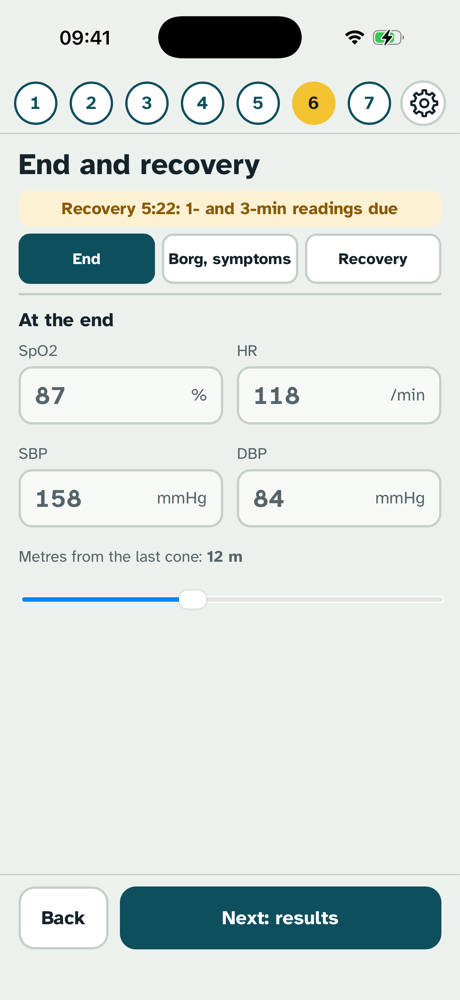
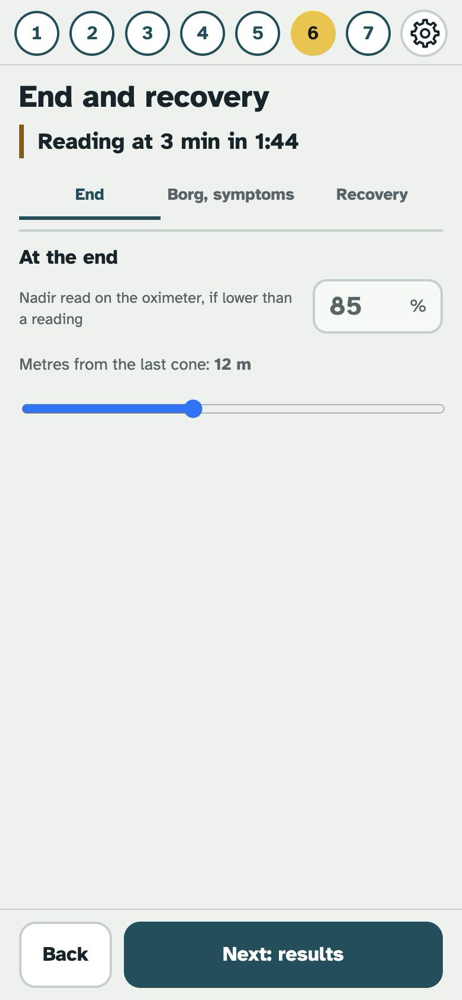
Nouveau dessin sur iPhone étendu aux autres écrans ; repos et récupération en tableau léger

diff --git a/index.html b/index.html
@@ -708,6 +708,42 @@ h1{font-size:28px;line-height:1.15;margin:20px 0 4px;text-wrap:balance}
   .cols.test .lap{padding-top:64px}
   .cols.test .ctl{grid-template-columns:.9fr 1.3fr 1.3fr}
   .cols.test .b-undo{border-color:transparent;background:none;color:var(--muted);white-space:nowrap;padding-left:0;padding-right:0}
+  /* Même principe sur les autres écrans (go d'Allan du 25 novembre 2026) : filets plutôt que cadres, texte à lire sur le fond
+     avec un filet pétrole, ocre = relevé à faire maintenant ; les champs de saisie gardent leur bord (où toucher). */
+  .lead{border-left:4px solid var(--accent);padding:1px 0 1px 12px;color:var(--fg)}
+  .readout{border-left:0;padding:0;margin:6px 0 10px}
+  .readout .rv{font-size:44px}
+  .borgrow{border:0;border-bottom:1px solid var(--line);border-radius:0;background:none;padding:8px 0;margin:0}
+  .borgrow:first-of-type{border-top:1px solid var(--line)}
+  .borgrow .showscale{background:none;color:var(--accent);border:2px solid var(--line);min-height:44px;padding:6px 14px}
+  .consignes{background:none;border-radius:0;padding:2px 0 2px 12px;font-size:17px;line-height:1.4}
+  .check{border:0;border-bottom:1px solid var(--line);border-radius:0;background:none;padding:10px 0;margin:0}
+  .check.on{border-color:var(--line)}
+  .rtabs{grid-gap:0}
+  .rtclk{background:none;border-radius:0;text-align:left;color:var(--fg);font:700 19px/1.3 var(--f-body);border-left:4px solid var(--warn);padding:2px 0 2px 12px;margin:0 0 8px}
+  .rtab{border:0;border-radius:0;background:none;color:var(--muted);box-shadow:inset 0 -3px 0 transparent}
+  .rtab.on{background:none;color:var(--accent);box-shadow:inset 0 -3px 0 var(--accent)}
+  .kpis{grid-gap:0;border-top:1px solid var(--line)}
+  .kpi{background:none;border:0;border-bottom:1px solid var(--line);border-radius:0;padding:10px 0}
+  .kpi:nth-child(odd){border-right:1px solid var(--line);padding-right:10px}
+  .kpi:nth-child(even){padding-left:12px}
+  .b-syn .text{background:none;border:0;border-left:4px solid var(--accent);border-radius:0;padding:2px 0 2px 12px;font-size:16px;line-height:1.45}
+  .ltab{margin:0}
+  .lh,.lrow{display:grid;grid-template-columns:46px repeat(4,minmax(0,1fr)) 44px;grid-gap:4px;-webkit-align-items:center;align-items:center;width:100%}
+  .lh{font-size:13px;color:var(--muted);text-align:center;padding:0 0 4px 10px;border-bottom:1px solid var(--line)}
+  .lrow{min-height:52px;margin:0;padding:0 0 0 10px;border:0;border-bottom:1px solid var(--line);border-radius:0;background:none;text-align:center;font:inherit;color:var(--fg)}
+  button.lrow{-webkit-appearance:none;appearance:none}
+  .ltab > .lrow:last-child{border-bottom:0}
+  .lrow .mm{font-size:14px;color:var(--muted);text-align:left}
+  .lrow b{font:700 24px/1 var(--f-num);font-variant-numeric:tabular-nums}
+  .lrow b.bad{color:var(--alert)}
+  .lrow.due{background:var(--warn-soft);box-shadow:inset 4px 0 0 var(--warn)}
+  .lrow.on{background:var(--warn-soft);box-shadow:inset 5px 0 0 var(--warn);padding:6px 0 6px 10px}
+  .lrow.on .mm{font-weight:700;color:var(--fg)}
+  .lrow.on .f > span:first-child{display:none}
+  .lrow.on .f .box{padding:0 4px}
+  .lrow.on .f input{font-size:22px;padding:8px 0;text-align:center}
+  .lrow.on .mok{min-height:44px;padding:0}
 }
 @media (prefers-reduced-motion:reduce){*{transition:none!important;animation:none!important}}
 </style></head><body>
@@ -1078,7 +1114,7 @@ var SCREENS = {
   repos: function () {
     nextBar('cond', LG('Suivant : préparer le départ', 'Next: get ready to start'), 'pret');
     return '<h1>' + LG('Repos, avant le départ', 'Rest, before the start') + '</h1><p class="lead">' + LG('Patient assis près de la ligne de départ, au repos au moins 15 minutes avant le test. Vérifier les contre-indications ; relever SpO2, FC et pression artérielle, puis dyspnée et fatigue.', 'Patient seated near the starting line, resting for at least 15 minutes before the test. Check contraindications; record SpO2, HR and blood pressure, then dyspnoea and fatigue.') + '</p>' +
-      '<div class="cols"><div class="col"><div class="card"><div class="grid2">' + field('rest.spo2', 'SpO2', '%') + field('rest.fc', LG('FC', 'HR'), '/min') + field('rest.pas', LG('PAS', 'SBP'), 'mmHg') + field('rest.pad', LG('PAD', 'DBP'), 'mmHg') + '</div>' + flags('repos') + '</div>' + restTitr() + '</div>' +
+      '<div class="cols"><div class="col"><div class="card">' + (phoneTab() ? ltab(lrowsRest()) : '<div class="grid2">' + field('rest.spo2', 'SpO2', '%') + field('rest.fc', LG('FC', 'HR'), '/min') + field('rest.pas', LG('PAS', 'SBP'), 'mmHg') + field('rest.pad', LG('PAD', 'DBP'), 'mmHg') + '</div>') + flags('repos') + '</div>' + restTitr() + '</div>' +
       '<div class="col"><div class="card' + (restTitrOn() ? ' borgpair' : '') + '"><h2>' + LG('Borg avant le test', 'Borg before the test') + '</h2>' + borg('rest.bd', LG('Dyspnée', 'Dyspnoea')) + borg('rest.bf', 'Fatigue') + '</div></div></div>';
   },
   pret: function () {
@@ -1125,14 +1161,14 @@ var SCREENS = {
     return '<h1>' + LG('Arrêt et récupération', 'End and recovery') + '</h1><p class="lead rcl">' + stopTxt + (S.stop.reason ? '.' : LG('. À dire : « ' + END_PHRASE + ' »', '. Say: “' + END_PHRASE + '”')) + LG(' Le minuteur de récupération tourne.', ' The recovery timer is running.') + '</p>' +
       '<div class="rtabs"><span class="rtstop">' + stopTxt + '</span><span class="rtclk" id="rtClk"></span>' + [LG('Arrêt', 'End'), LG('Borg, symptômes', 'Borg, symptoms'), LG('Récupération', 'Recovery')].map(function (t, i) { return '<button type="button" class="rtab' + ((S.rpane || 0) === i ? ' on' : '') + '" data-rpane="' + i + '">' + t + '</button>'; }).join('') + '</div>' +
       '<div class="cols rcp" data-pane="' + (S.rpane || 0) + '"><div class="col"><div class="rec"><div class="rt" id="rt1"><span>' + LG('Récupération', 'Recovery') + '</span><b id="recClk">0:00</b></div><div class="rt" id="rt3"><span id="recLbl">' + LG('Relevé à 1 min dans', 'Reading at 1 min in') + '</span><b id="recNext">1:00</b></div></div>' +
-      '<div class="card"><h2>' + LG('À l\'arrêt', 'At the end') + '</h2><div class="grid2">' + field('end.spo2', 'SpO2', '%') + field('end.fc', LG('FC', 'HR'), '/min') + field('end.pas', LG('PAS', 'SBP'), 'mmHg') + field('end.pad', LG('PAD', 'DBP'), 'mmHg') + '</div>' +
+      '<div class="card"><h2>' + LG('À l\'arrêt', 'At the end') + '</h2>' + (phoneTab() ? '' : '<div class="grid2">' + field('end.spo2', 'SpO2', '%') + field('end.fc', LG('FC', 'HR'), '/min') + field('end.pas', LG('PAS', 'SBP'), 'mmHg') + field('end.pad', LG('PAD', 'DBP'), 'mmHg') + '</div>') +
       '<div class="nadirrow phoneonly">' + field('nadir', LG('Nadir lu sur l\'oxymètre, s\'il est plus bas qu\'un relevé', 'Nadir read on the oximeter, if lower than a reading'), '%') + '</div>' +
       '<div style="height:12px"></div><div class="f"><span>' + (nLaps() === 0 && depart() ? LG('Mètres depuis la ligne de départ', 'Metres from the starting line') : LG('Mètres depuis le dernier plot', 'Metres from the last cone')) + LG(' : ', ': ') + '<b id="partV">' + (S.end.partiel || 0) + ' m</b></span>' +
       '<input class="slider" type="range" min="0" max="' + partMax() + '" step="1" value="' + (S.end.partiel || 0) + '" data-k="end.partiel"></div>' + flags('recup') + '</div></div><div class="col">' +
       '<div class="card"><h2>' + LG('Borg à la fin', 'Borg at the end') + '</h2>' + borg('end.bd', LG('Dyspnée', 'Dyspnoea')) + borg('end.bf', 'Fatigue') + '</div>' +
       '<div class="card"><h2>' + LG('Symptômes limitants', 'Limiting symptoms') + '</h2><p class="say">' + LG('Après le Borg : « Qu\'est-ce qui vous a empêché de marcher plus loin ? »', 'After the Borg: “What, if anything, kept you from walking farther?”') + '</p>' + sy + '</div>' +
-      '</div><div class="col"><div class="card" id="rc1"><h2>' + LG('Récupération à 1 min', 'Recovery at 1 min') + '</h2><div class="grid4">' + field('rec.1.spo2', 'SpO2 %', '') + field('rec.1.fc', LG('FC /min', 'HR /min'), '') + field('rec.1.pas', LG('PAS', 'SBP'), '') + field('rec.1.pad', LG('PAD', 'DBP'), '') + '</div></div>' +
-      '<div class="card" id="rc3"><h2>' + LG('Récupération à 3 min', 'Recovery at 3 min') + '</h2><div class="grid4">' + field('rec.3.spo2', 'SpO2 %', '') + field('rec.3.fc', LG('FC /min', 'HR /min'), '') + field('rec.3.pas', LG('PAS', 'SBP'), '') + field('rec.3.pad', LG('PAD', 'DBP'), '') + '</div></div></div></div>';
+      '</div><div class="col">' + (phoneTab() ? ltab(lrowsRec()) + '</div></div>' : '<div class="card" id="rc1"><h2><span class="lg">' + LG('Récupération à ', 'Recovery at ') + '</span>1 min</h2><div class="grid4">' + field('rec.1.spo2', 'SpO2 %', '') + field('rec.1.fc', LG('FC /min', 'HR /min'), '') + field('rec.1.pas', LG('PAS', 'SBP'), '') + field('rec.1.pad', LG('PAD', 'DBP'), '') + '</div></div>' +
+      '<div class="card" id="rc3"><h2><span class="lg">' + LG('Récupération à ', 'Recovery at ') + '</span>3 min</h2><div class="grid4">' + field('rec.3.spo2', 'SpO2 %', '') + field('rec.3.fc', LG('FC /min', 'HR /min'), '') + field('rec.3.pas', LG('PAS', 'SBP'), '') + field('rec.3.pad', LG('PAD', 'DBP'), '') + '</div></div></div></div>');
   },
   bilan: function () {
     $('next').style.display = 'block';
@@ -1218,6 +1254,34 @@ function o2Label() {
 }
 
 function fr1(v) { var t = (Math.round(v * 10) / 10).toString(); return EN ? t : t.replace('.', ','); }
+// iPhone portrait : relevés du repos et de la récupération en tableau léger, comme le tableau des minutes du test
+// (go d'Allan du 25 novembre 2026) : chiffres en gros, point si la valeur manque, une seule ligne ouverte à la saisie,
+// la ligne attendue s'ouvre d'elle-même (repos, arrêt, puis 1 et 3 min au minuteur), toucher une ligne pour la corriger.
+function lrowsRest() { return [{ id: 'rest', l: LG('Repos', 'Rest'), p: 'rest.', due: true }]; }
+function lrowsRec() {
+  return [{ id: 'end', l: LG('Arrêt', 'End'), p: 'end.', due: true }, { id: 'rec1', l: '1 min', p: 'rec.1.', due: S.recT >= 60 }, { id: 'rec3', l: '3 min', p: 'rec.3.', due: S.recT >= 180 }];
+}
+function lfull(r) { return ['spo2', 'fc', 'pas', 'pad'].every(function (k) { return ok(get(r.p + k)); }); }
+// Ligne ouverte : celle choisie à la main (S.lsel), sinon la dernière ligne attendue et incomplète.
+function lopen(rows) {
+  if (S.lsel !== undefined) return S.lsel;
+  for (var i = rows.length - 1; i >= 0; i--) if (rows[i].due && !lfull(rows[i])) return rows[i].id;
+  return '';
+}
+function ltab(rows) {
+  var open = lopen(rows), ks = ['spo2', 'fc', 'pas', 'pad'];
+  var h = '<div class="ltab"><div class="lh"><span></span><span>SpO2 %</span><span>' + LG('FC /min', 'HR /min') + '</span><span>' + LG('PAS', 'SBP') + '</span><span>' + LG('PAD', 'DBP') + '</span><span></span></div>';
+  rows.forEach(function (r) {
+    var st = (lfull(r) ? ' ok' : r.due ? ' due' : '');
+    if (r.id === open) h += '<div class="lrow on' + st + '"><span class="mm">' + r.l + '</span>' + ks.map(function (k) { return field(r.p + k, '', ''); }).join('') + '<button type="button" class="mok" data-lok="' + r.id + '">OK</button></div>';
+    else h += '<button type="button" class="lrow' + st + '" data-lrow="' + r.id + '"><span class="mm">' + r.l + '</span>' + ks.map(function (k) {
+      var b = S.bad[r.p + k] != null, v = b ? S.bad[r.p + k] : get(r.p + k);
+      return '<b class="' + (b ? 'bad' : '') + '">' + (v === '' || v == null ? '·' : esc(v)) + '</b>';
+    }).join('') + '<span></span></button>';
+  });
+  return h + '</div>';
+}
+function ltyping() { var a = document.activeElement; return !!(a && a.tagName === 'INPUT' && a.closest && a.closest('.ltab')); }
 function kpi(v, l, bad) { return '<div class="kpi' + (bad ? ' bad' : '') + '"><b>' + v + '</b><span>' + l + '</span></div>'; }
 // Même rendu que table(), mais en blocs : peut se répartir sur plusieurs colonnes.
 function entries(rows) {
@@ -1409,6 +1473,7 @@ function demoFill() {
 /* ---------- Navigation ---------- */
 function go(step) {
   if (step === 'test' && !S.started) step = 'pret';
+  if (step !== S.step) S.lsel = undefined;
   S.step = step; S.seen[step] = 1;
   document.body.setAttribute('data-step', step); document.body.className = document.body.className.replace(/ ?showsteps/g, '');
   var h = SCREENS[step]();
@@ -1442,7 +1507,7 @@ function tick() {
     if (S.t >= TEST) { finish(null); return; }
   } else if (S.stop) {
     S.recT = (now - S.recT0) / 1000 * S.speed;
-    [1, 3].forEach(function (m) { if (S.recT >= m * 60 && !S.recFired[m]) { S.recFired[m] = 1; beep(740, 0.3, m === 1 ? 1 : 2); } });
+    [1, 3].forEach(function (m) { if (S.recT >= m * 60 && !S.recFired[m]) { S.recFired[m] = 1; beep(740, 0.3, m === 1 ? 1 : 2); if (S.step === 'recup' && phoneTab() && !ltyping()) { S.lsel = undefined; go('recup'); } } });
   }
   if (S.step === 'test') renderTest(true);
   if (S.step === 'recup') renderRecup();
@@ -1478,6 +1543,7 @@ function checkSpo2(k, val) {
 function minTyping() { var a = document.activeElement, b = $('promptBox'); return !!(a && b && a.tagName === 'INPUT' && b.contains(a)); }
 // Une minute choisie à la main reste ouverte 15 s (temps réel) même si une nouvelle minute commence.
 // iPhone en portrait : tableau des six minutes (SpO2, FC, allers de la minute), saisie dans la ligne touchée.
+if (window.matchMedia) { var mqPT = matchMedia('(max-width:699px) and (orientation:portrait)'); if (mqPT.addListener) mqPT.addListener(function () { if ((S.step === 'repos' || S.step === 'recup') && !ltyping()) go(S.step); }); }
 function phoneTab() { return !!(window.matchMedia && matchMedia('(max-width:699px) and (orientation:portrait)').matches); }
 function lapsIn(m) { var n = 0; S.laps.forEach(function (t) { if (t >= (m - 1) * 60 && t < m * 60) n++; }); return n; }
 function renderMtab() {
@@ -1544,8 +1610,8 @@ function renderRecup() {
   $('recClk').textContent = mmss(Math.min(S.recT, 180)); // plafonné à 3 min : un test rouvert le lendemain affichait « 2412:42 »
   $('recLbl').textContent = S.recT < 60 ? LG('Relevé à 1 min dans', 'Reading at 1 min in') : S.recT < 180 ? LG('Relevé à 3 min dans', 'Reading at 3 min in') : LG('Relevés', 'Readings');
   $('recNext').textContent = S.recT < 60 ? mmss(60 - S.recT) : S.recT < 180 ? mmss(180 - S.recT) : LG('terminé', 'done');
-  $('rc1').style.borderColor = S.recT >= 60 && !ok(S.rec[1].spo2) ? 'var(--warn)' : '';
-  $('rc3').style.borderColor = S.recT >= 180 && !ok(S.rec[3].spo2) ? 'var(--warn)' : '';
+  if ($('rc1')) { var d1 = S.recT >= 60 && !ok(S.rec[1].spo2); $('rc1').style.borderColor = d1 ? 'var(--warn)' : ''; $('rc1').className = 'card' + (d1 ? ' due' : '');
+  var d3 = S.recT >= 180 && !ok(S.rec[3].spo2); $('rc3').style.borderColor = d3 ? 'var(--warn)' : ''; $('rc3').className = 'card' + (d3 ? ' due' : ''); }
   if ($('rtClk')) $('rtClk').textContent = S.recT < 180 ? $('recLbl').textContent + ' ' + $('recNext').textContent : LG('Relevés à 1 et 3 min passés', '1- and 3-min readings due');
 }
 
@@ -1678,6 +1744,10 @@ document.addEventListener('click', function (e) {
   if (sy) { var i = S.end.sympt.indexOf(sy); if (i >= 0) S.end.sympt.splice(i, 1); else S.end.sympt.push(sy); b.className = 'opt' + (i >= 0 ? '' : ' on'); return; }
   var rp = b.getAttribute('data-rpane');
   if (rp != null) { S.rpane = +rp; go('recup'); return; }
+  var lr = b.getAttribute('data-lrow');
+  if (lr) { S.lsel = lr; var y0 = window.scrollY; go(S.step); window.scrollTo(0, y0); var li = document.querySelectorAll('.lrow.on input'), fi = null; for (var q = 0; q < li.length; q++) if (li[q].value === '') { fi = li[q]; break; } fi = fi || li[0]; if (fi) fi.focus(); return; }
+  var lo = b.getAttribute('data-lok');
+  if (lo) { var rows = S.step === 'repos' ? lrowsRest() : lrowsRec(), nx = ''; for (var q2 = rows.length - 1; q2 >= 0; q2--) if (rows[q2].id !== lo && rows[q2].due && !lfull(rows[q2])) { nx = rows[q2].id; break; } S.lsel = nx; go(S.step); return; }
   var mn = b.getAttribute('data-min');
   if (mn) { if (!S.mins[mn]) S.mins[mn] = { s: '', f: '' }; S.minOpen = +mn; S.minPick = Date.now(); $('promptBox').innerHTML = ''; renderTest(); if (phoneTab()) { var fi = document.querySelector('#mrw' + mn + ' input'); if (fi) fi.focus(); } return; }
   var sc = b.getAttribute('data-scale');

diff --git a/sw.js b/sw.js
@@ -1,6 +1,6 @@
 // Sans réseau : la page et ses fichiers viennent du cache. Avec réseau : le cache est servi tout de suite
 // et mis à jour en arrière-plan ; la nouvelle version s'affiche au lancement suivant.
-const CACHE = 'tm6-58ebf59e88';
+const CACHE = 'tm6-23537f92c2';
 const FILES = ['./', 'index.html', 'manifest.webmanifest', 'manifest-en.webmanifest', 'icon-180.png', 'icon-512.png', 'icon-en-180.png', 'icon-en-512.png',
   'AtkinsonHyperlegible-Regular.ttf', 'AtkinsonHyperlegible-Bold.ttf', 'AtkinsonHyperlegibleMono.ttf'];
 self.addEventListener('install', e => { e.waitUntil(caches.open(CACHE).then(c => c.addAll(FILES))); self.skipWaiting(); });

diff --git a/TUTORIAL.md b/TUTORIAL.md
@@ -36,7 +36,7 @@ Choose the type of test, 6-minute walk test or exertional oxygen titration, then
 
 ## 3. Rest
 
-The patient has been sitting at rest for at least 15 minutes. Enter SpO2, HR and blood pressure, then have the patient rate dyspnoea and fatigue.
+The patient has been sitting at rest for at least 15 minutes. Enter SpO2, HR and blood pressure, then have the patient rate dyspnoea and fatigue. On iPhone, the four values are entered in a row that closes with "OK" and then shows the figures in large type; tap the row to correct them.
 
 <p>
   <img src="captures/tutorial/repos.png" alt="Rest screen filled in, with the Borg ratings" width="260">
@@ -70,17 +70,17 @@ The "Nadir read on the oximeter" field records the lowest SpO2 shown by the oxim
 
 ## 6. End and recovery
 
-At the end of the 6 minutes, the app moves to this screen on its own and starts the recovery timer. The yellow band shows the time left before each reading, and a beep sounds at 1 and then at 3 minutes. The screen has three tabs.
+At the end of the 6 minutes, the app moves to this screen on its own and starts the recovery timer. The line marked with an ochre bar, under the title, shows the time left before each reading, and a beep sounds at 1 and then at 3 minutes. The screen has three tabs.
 
 <p>
   <img src="captures/tutorial/recup.png" alt="End tab: measurements at the end and metres from the last cone" width="200">
   &nbsp;
   <img src="captures/tutorial/symptomes.png" alt="Borg, symptoms tab" width="200">
   &nbsp;
-  <img src="captures/tutorial/recup3.png" alt="Recovery tab: readings at 1 and 3 minutes" width="200">
+  <img src="captures/tutorial/recup3.png" alt="Recovery tab: table of the end values and the readings at 1 and 3 minutes, 1-min row open" width="200">
 </p>
 
-The **End** tab receives SpO2, HR and blood pressure at the end, and the slider gives the metres walked since the last cone. The **Borg, symptoms** tab holds the end-of-test rating, with a reminder of the rating before the test, then the symptoms that kept the patient from walking farther. The **Recovery** tab receives the readings at 1 and 3 minutes.
+The **End** tab receives SpO2, HR and blood pressure at the end (on iPhone, they are entered in the table of the Recovery tab), the nadir read on the oximeter, and the slider gives the metres walked since the last cone. The **Borg, symptoms** tab holds the end-of-test rating, with a reminder of the rating before the test, then the symptoms that kept the patient from walking farther. The **Recovery** tab is a table, like the minute table during the test: the "End", "1 min" and "3 min" rows show the values in large type, or a dot when they are missing. The row that is due opens on its own (the end, then 1 min and 3 min with the timer); "OK" closes it, and a row can be tapped to fill it in or correct it.
 
 ## 7. Results and report
 

diff --git a/NOTES-DE-VERSION.md b/NOTES-DE-VERSION.md
@@ -2,6 +2,10 @@
 
 *[English](RELEASE-NOTES.md) · Français*
 
+## 25 novembre 2026 — nouveau dessin sur iPhone
+
+Sur iPhone tenu en portrait, les écrans ont moins de cadres : les valeurs et les listes sont séparées par des filets, et les textes à lire (consignes au patient, phrase pendant le test, synthèse) sont posés sur le fond avec un trait pétrole à gauche. Pendant le test, le tableau des minutes est un vrai tableau, le chronomètre et le temps restant tiennent sur une ligne, le couloir est dessiné dans le haut du bouton « +1 aller », plus grand qu'avant, et « Annuler 1 » est discret. Au repos et après l'arrêt, les relevés (SpO2, FC, PAS, PAD) se saisissent dans un tableau qui fonctionne comme celui des minutes pendant le test : chiffres en gros, point quand une valeur manque, ligne attendue ouverte d'elle-même (repos ; arrêt, puis 1 et 3 min au minuteur), « OK » pour la refermer, toucher une ligne pour la corriger. Les valeurs à l'arrêt se saisissent désormais dans le tableau de l'onglet Récupération. Les onglets de cet écran sont soulignés. Le minuteur de récupération s'arrête à 3 minutes (un test rouvert le lendemain n'affiche plus une durée de plusieurs jours). Le fonctionnement, l'iPad et le paysage ne changent pas.
+
 ## 23 novembre 2026 — titration partie en air ambiant
 
 Une titration peut commencer en air ambiant, pour montrer d'abord la désaturation en air. Pendant le test, le bouton « Oxygène : air ambiant, modifier » ouvre « Passer sous oxygène », où l'on choisit l'interface, le mode, la source et le débit ou le réglage ; les changements suivants se font comme avant, et annuler le premier changement ramène à l'air ambiant. Le compte rendu l'écrit (« air ambiant au départ, puis lunettes, débit continu », « passage de l'air ambiant à 2 L/min à 1 min 42 s »), et la piste O2 de la figure part de zéro. Sur iPhone, l'écran du test d'une titration tient désormais sans que les boutons du bas passent sous la barre d'accueil.

diff --git a/RELEASE-NOTES.md b/RELEASE-NOTES.md
@@ -2,6 +2,10 @@
 
 *English · [Français](NOTES-DE-VERSION.md)*
 
+## 25 November 2026 — new look on iPhone
+
+On iPhone held upright, the screens have fewer boxes: values and lists are separated by thin rules, and the texts to read (instructions to the patient, phrase during the test, summary) sit on the background with a teal bar on the left. During the test, the minute table is a real table, the timer and the time left fit on one line, the corridor is drawn at the top of the "+1 length" button, which is larger than before, and "Undo 1" is discreet. At rest and after the end, the readings (SpO2, HR, SBP, DBP) are entered in a table that works like the minute table during the test: large figures, a dot when a value is missing, the row that is due opens on its own (rest; end, then 1 and 3 min with the timer), "OK" closes it, and a row can be tapped to correct it. The values at the end are now entered in the table of the Recovery tab. The tabs of this screen are underlined. The recovery timer stops at 3 minutes (a test reopened the next day no longer shows a duration of several days). The way the app works, the iPad and landscape are unchanged.
+
 ## 23 November 2026 — titration starting on room air
 
 A titration can start on room air, to show desaturation on air first. During the test, the "Oxygen: room air, change" button opens "Switch to oxygen", where the interface, the mode, the source and the flow or setting are chosen; later changes work as before, and undoing the first change returns to room air. The report states it ("room air at the start, then nasal cannula, continuous flow", "switch from room air to 2 L/min at 1 min 42 s"), and the O2 track of the figure starts from zero. On iPhone, the test screen of a titration now fits without the bottom buttons going under the home bar.
